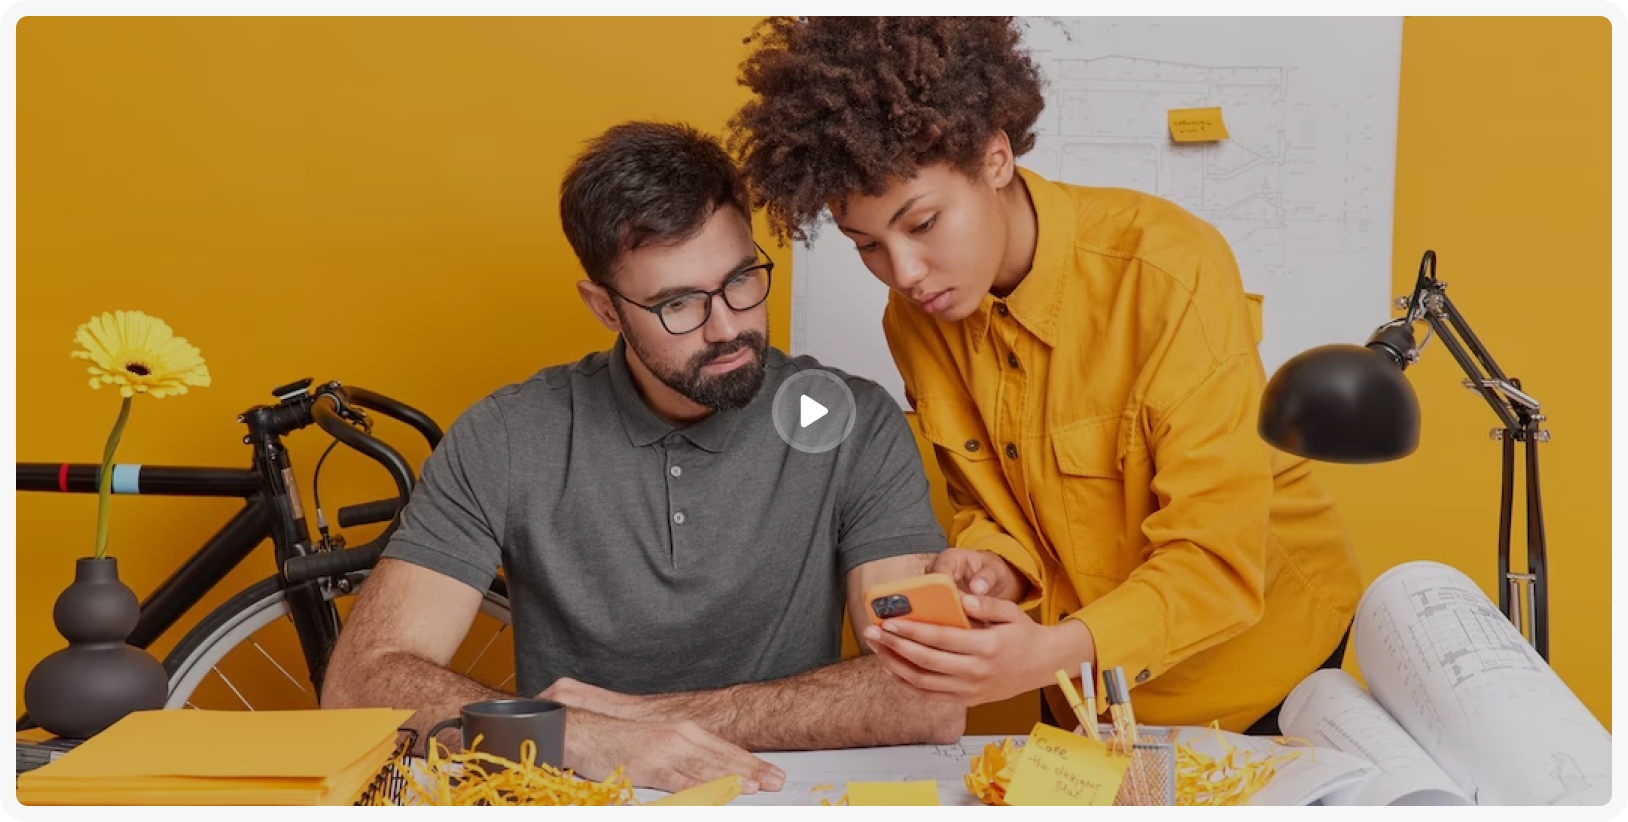
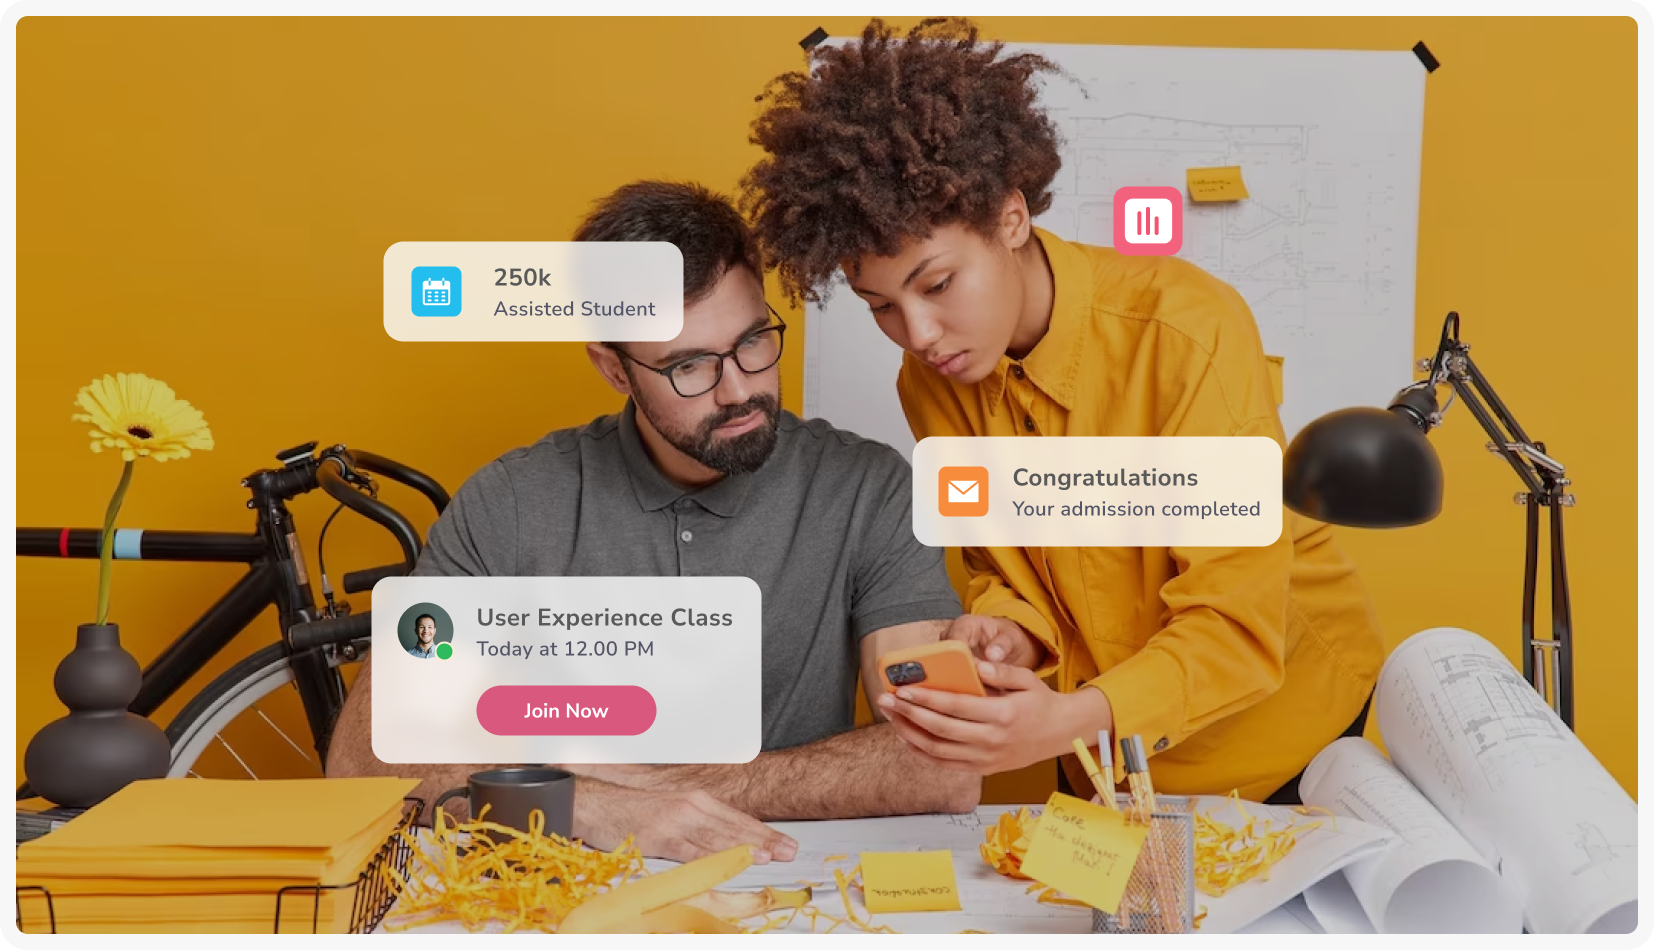
Modify Home page

diff --git a/src/app/site/page.tsx b/src/app/site/page.tsx
@@ -28,27 +28,183 @@ export default function Home() {
               Potential
             </h1>
           </div>
-          <p className="text-center mt-5 max-w-[550px] w-full mx-auto">
-            Learn from Industry Experts and Enhance Your Skills & Share what you
-            know{";"} we{"'"}ll help you get paid for it
+          <p className="text-center mt-5 max-w-[660px] w-full mx-auto">
+            Learn from industry experts and enhance your skills. Share your
+            expertise, and we&apos;ll assist you in monetizing it. Whether you
+            &apos; re an experienced teacher or an enthusiastic student, embark
+            on your journey now
           </p>
           <div className="flex md:flex-row flex-col items-center gap-6 justify-center mt-8">
-            <Button asChild size={"lg"}>
-              <Link href={""}>Explore Sevices</Link>
-            </Button>
-            <Button asChild size={"lg"} className="bg-themePrimary">
-              <Link href={""}>View Pricing</Link>
+            <Button
+              asChild
+              size={"lg"}
+              className="bg-gradient-to-r from-[#775B16] from-10% via-[#EFB41F] via-60% to-[#EFB41F] to-90% rounded-2xl font-bold text-lg py-7 px-10"
+            >
+              <Link href={""}>Create Account</Link>
             </Button>
           </div>
         </section>
         <section className="container mx-auto">
-          <video
-            src="https://www.pexels.com/video/online-courses-list-5900947/"
-            controls
-            poster="/img/section-02-thumbnail.png"
-            className="w-full h-full max-h-[600px]"
-          ></video>
+          <Image
+            src="/img/section-02-thumbnail.png"
+            alt="preview img"
+            width={1000}
+            height={1000}
+            className="w-full h-full"
+          />
         </section>
+
+        <section className="container mx-auto md:my-20 my-8 grid xl:grid-cols-5 lg:grid-cols-4 md:grid-cols-3 sm:grid-cols-2 grid-cols-1 gap-10">
+          <div className="text-center">
+            <h2 className="lg:text-7xl text-3xl font-light bg-gradient-to-r from-themePrimary via-themePrimary to-slate-800 inline-block text-transparent bg-clip-text">
+              15K+
+            </h2>
+            <p className="lg:text-lg text-sm">Students</p>
+          </div>
+          <div className="text-center">
+            <h2 className="lg:text-7xl text-3xl font-light bg-gradient-to-r from-themePrimary via-themePrimary to-slate-800 inline-block text-transparent bg-clip-text">
+              75%
+            </h2>
+            <p className="lg:text-lg text-sm">Total success</p>
+          </div>
+          <div className="text-center">
+            <h2 className="lg:text-7xl text-3xl font-light bg-gradient-to-r from-themePrimary via-themePrimary to-slate-800 inline-block text-transparent bg-clip-text">
+              35
+            </h2>
+            <p className="lg:text-lg text-sm">Main questions</p>
+          </div>
+          <div className="text-center">
+            <h2 className="lg:text-7xl text-3xl font-light bg-gradient-to-r from-themePrimary via-themePrimary to-slate-800 inline-block text-transparent bg-clip-text">
+              26
+            </h2>
+            <p className="lg:text-lg text-sm">Chief experts</p>
+          </div>
+          <div className="text-center">
+            <h2 className="lg:text-7xl text-3xl font-light bg-gradient-to-r from-themePrimary via-themePrimary to-slate-800 inline-block text-transparent bg-clip-text">
+              16
+            </h2>
+            <p className="lg:text-lg text-sm">Years of experience</p>
+          </div>
+        </section>
+
+        <section className="container mx-auto md:my-20 my-8 gap-10">
+          <div className="mx-auto max-w-[230px] w-full border border-themePrimary py-4 px-1 rounded-full text-center font-bold text-themePrimary text-2xl">
+            Road Map
+          </div>
+          <div className="text-center mt-16 max-w-lg mx-auto w-full">
+            <h2 className="text-[#2F327D] md:text-3xl text-xl font-semibold mb-3">
+              All-In-One{" "}
+              <span className="text-themePrimary">Cloud Software.</span>
+            </h2>
+            <p className="text-[#696984]">
+              Course creator hub is one powerful online software suite that
+              combines all the tools needed to run a successful school or
+              office.
+            </p>
+          </div>
+          <div className="grid lg:grid-cols-3 md:grid-cols-2 grid-cols-1 gap-x-10 gap-y-14 lg:px-24 mt-24">
+            <div className="rounded-xl shadow-xl bg-slate-50 py-10 px-12 text-center relative">
+              <div className="absolute -top-10 left-[40%] rounded-full  w-[70px] h-[70px] bg-[#5B72EE] flex items-center justify-center">
+                <Image
+                  src="/img/section-04-img-01.png"
+                  alt="Image 01"
+                  width={20}
+                  height={20}
+                />
+              </div>
+              <h2 className="text-[#2F327D] text-2xl mb-5 pt-16">
+                Online Billing, Invoicing, & Contracts
+              </h2>
+              <p className="text-[#696984]">
+                Simple and secure control of your organization’s financial and
+                legal transactions. Send customized invoices and contracts
+              </p>
+            </div>
+            <div className="rounded-xl shadow-xl bg-slate-50 py-10 px-12 text-center relative">
+              <div className="absolute -top-10 left-[40%] rounded-full  w-[70px] h-[70px] bg-[#DAA520] flex items-center justify-center">
+                <Image
+                  src="/img/section-04-img-02.png"
+                  alt="Image 01"
+                  width={25}
+                  height={25}
+                />
+              </div>
+              <h2 className="text-[#2F327D] text-2xl mb-5 pt-16">
+                Easy Scheduling & Attendance Tracking
+              </h2>
+              <p className="text-[#696984]">
+                Schedule and reserve classrooms at one campus or multiple
+                campuses. Keep detailed records of student attendance
+              </p>
+            </div>
+            <div className="rounded-xl shadow-xl bg-slate-50 py-10 px-12 text-center relative">
+              <div className="absolute -top-10 left-[40%] rounded-full  w-[70px] h-[70px] bg-[#29B9E7] flex items-center justify-center">
+                <Image
+                  src="/img/section-04-img-03.png"
+                  alt="Image 01"
+                  width={35}
+                  height={35}
+                />
+              </div>
+              <h2 className="text-[#2F327D] text-2xl mb-5 pt-16">
+                Customer Tracking
+              </h2>
+              <p className="text-[#696984]">
+                Automate and track emails to individuals or groups. Skilline’s
+                built-in system helps organize your organization
+              </p>
+            </div>
+          </div>
+        </section>
+
+        <section className="container mx-auto md:my-20 my-8 gap-10">
+          <div className="text-center mt-16 max-w-2xl mx-auto w-full">
+            <h2 className="text-[#2F327D] md:text-3xl text-xl font-semibold mb-3">
+              What is{" "}
+              <span className="text-themePrimary font-light">
+                Course creator hub
+              </span>
+            </h2>
+            <p className="text-[#696984]">
+              Course creator hub is a platform that allows educators to create
+              online classes and courses whereby they can store the course
+              materials online; manage assignments, quizzes and exams; monitor
+              due dates; grade results and provide students with feedback all in
+              one place.
+            </p>
+          </div>
+          <div className="lg:px-20 grid lg:grid-cols-2 grid-cols-1 gap-10 mt-10">
+            <div className="rounded-lg bg-[url('/img/section-05-img-01.png')] bg-cover bg-center overflow-hidden">
+              <div className="h-[300px] w-full flex items-center justify-center flex-col gap-4 bg-[#171B41]/50 text-slate-50">
+                <h2 className="font-semibold">FOR INSTRUCTORS</h2>
+                <Button
+                  asChild
+                  variant={"ghost"}
+                  className="border border-slate-50 rounded-full px-8 py-6"
+                >
+                  <Link href={""} className="font-light">
+                    Start a class today
+                  </Link>
+                </Button>
+              </div>
+            </div>
+            <div className="rounded-lg bg-[url('/img/section-05-img-02.png')] bg-cover bg-center overflow-hidden">
+              <div className="h-[300px] w-full flex items-center justify-center flex-col gap-4 bg-[#171B41]/50 text-slate-50">
+                <h2 className="font-semibold">FOR STUDENTS</h2>
+                <Button
+                  asChild
+                  variant={"ghost"}
+                  className="rounded-full bg-[#23BDEE] px-8 py-6"
+                >
+                  <Link href={""} className="font-light">
+                    Enter access code
+                  </Link>
+                </Button>
+              </div>
+            </div>
+          </div>
+        </section>
+
         <section className="container mx-auto md:my-20 my-8">
           <div className="flex items-center justify-between gap-10 mb-10">
             <h2 className="md:text-3xl text-xl font-medium">Benefits</h2>
